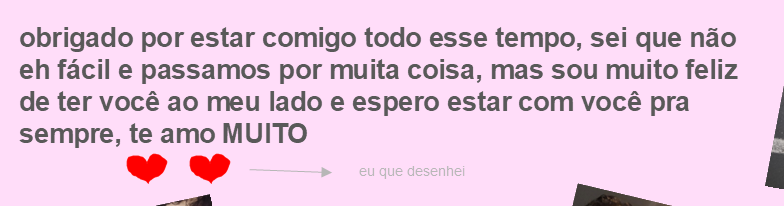
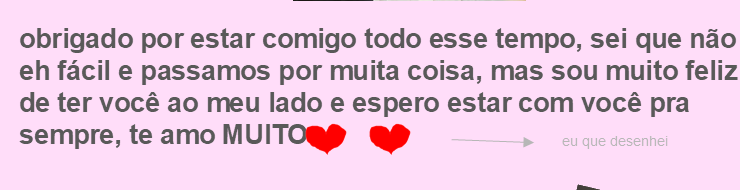
tela 1: coracoes ao lado de MUITO; botao entra depois do texto

diff --git a/index.html b/index.html
@@ -50,7 +50,9 @@
   #p7 { left: 777.49px; top: 151.00px; width: 124.00px; height: 164.79px; transform: rotate(10.64deg);  }
   #p8 { left: 651.79px; top: 18.01px;  width: 145.38px; height: 109.13px; }
   /* bloco de texto + coracoezinhos + setinha (aparece no fim) */
-  #tb { left: 189.75px; top: 163.50px; width: 588px; height: 154.50px; }
+  #tb { left: 189.75px; top: 162.75px; width: 555px; height: 142.50px; }
+  /* botao "proxima pagina" (aparece depois do texto) */
+  #btn { left: 767.25px; top: 480px; width: 162.75px; height: 52.50px; }
   /* tempos de entrada (cada um leva 1s; igual ao ppt) */
   #stage.play #p1 { animation-delay: 0ms; }
   #stage.play #p2 { animation-delay: 1000ms; }
@@ -60,7 +62,8 @@
   #stage.play #p6 { animation-delay: 5000ms; }
   #stage.play #p7 { animation-delay: 6000ms; }
   #stage.play #p8 { animation-delay: 7000ms; }
-  #stage.play #tb { animation-delay: 8000ms; }
+  #stage.play #tb  { animation-delay: 8000ms; }
+  #stage.play #btn { animation-delay: 9000ms; }
   @keyframes fadein { from { opacity: 0; } to { opacity: 1; } }
   /* areas clicaveis (invisiveis, por cima dos botoes desenhados no ppt) */
   .hotspot {
@@ -82,7 +85,6 @@
 
     <!-- TELA 1: fundo + botao (sempre visiveis), fotos formam o coracao, depois o texto -->
     <section class="slide active" id="slide1">
-      <img class="bg" src="assets/frame00.png" alt="">
       <img class="el" id="p1" src="assets/p1.jpg" alt="">
       <img class="el" id="p2" src="assets/p2.png" alt="">
       <img class="el" id="p3" src="assets/p3.jpg" alt="">
@@ -92,6 +94,7 @@
       <img class="el" id="p7" src="assets/p7.jpg" alt="">
       <img class="el" id="p8" src="assets/p8.jpg" alt="">
       <img class="el" id="tb" src="assets/textblock.png" alt="">
+      <img class="el" id="btn" src="assets/button.png" alt="">
       <button class="hotspot" id="hsNext" aria-label="proxima pagina" onclick="go(2)"></button>
     </section>
 